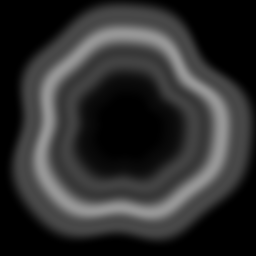
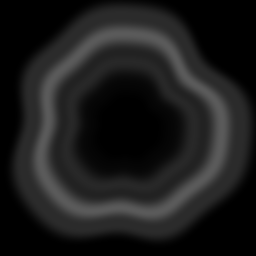
Oil rainbow: softer (saturation 0.55, opacity 0.45) so it reads as a film, not a colour wheel

diff --git a/tools/make_fluid_assets.py b/tools/make_fluid_assets.py
@@ -57,11 +57,11 @@ def main():
     hue = (dd * 2.3 + 0.12 * np.sin(2 * th + ph[0]) + 0.08 * np.sin(5 * th + ph[1]) + 0.1 * np.sin(dd * 9 + ph[2])) % 1.0
     rgb = np.zeros((N, N, 3), np.float32)
     flat = hue.reshape(-1)
-    cols = np.array([colorsys.hsv_to_rgb(h, 0.85, 1.0) for h in np.linspace(0, 1, 256)], np.float32)
+    cols = np.array([colorsys.hsv_to_rgb(h, 0.55, 1.0) for h in np.linspace(0, 1, 256)], np.float32)
     rgb = cols[(flat * 255).astype(int)].reshape(N, N, 3)
     Image.fromarray((rgb * 255 + 0.5).astype(np.uint8), 'RGB').save(os.path.join(out, 'rainbow.color.png'))
     band = 0.55 + 0.45 * np.sin(dd * 14 + ph[3]) ** 2
-    save_grey(mask * smoothstep(0.2, 0.9, dd) * band * 0.75, os.path.join(out, 'rainbow_o.data.png'))
+    save_grey(mask * smoothstep(0.2, 0.9, dd) * band * 0.45, os.path.join(out, 'rainbow_o.data.png'))
 
     D = '/art/surfacefx/fluids/'
 
